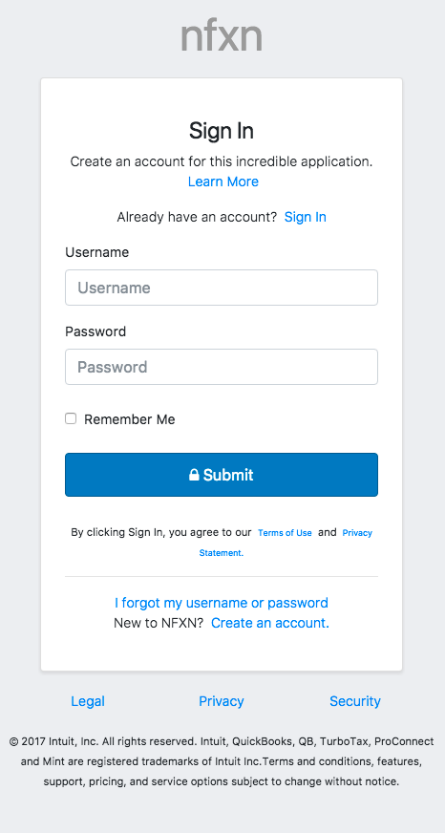
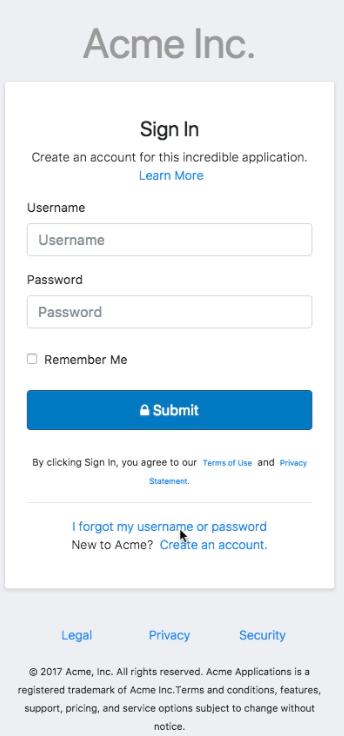
Updated

Changed region(s): [[0.0291, 0.125, 0.9884, 1.0], [0.2326, 0.0, 0.7267, 0.0938], [0.6395, 0.25, 0.7267, 0.2812]]

diff --git a/portfolio/prototypes/auth-alpha/_project/public/js/main.js b/portfolio/prototypes/auth-alpha/_project/public/js/main.js
@@ -1,14 +1,16 @@
 const cardSignIn = document.getElementById('card-signin');
 const cardCreate = document.getElementById('card-create');
 const cardForgot = document.getElementById('card-forgot');
-const linkForgotPassword = document.getElementById('link-forgot-password');
-const linkCreateAccount = document.getElementById('link-create-account');
+const cardSignInClassList = cardSignIn.classList;
+const cardForgotClassList = cardForgot.classList;
+const cardCreateClassList = cardCreate.classList;
+const siginLinkForgotPassword = document.getElementById('link-sigin-forgot-password');
+const siginLinkCreateAccount = document.getElementById('link-sigin-create-account');
+const forgotLinkSignIn = document.getElementById('link-forgot-signin');
+const createLinkSignIn = document.getElementById('create-link-signin');
 
-linkForgotPassword.addEventListener("click", () => {
-  let cardSignInClassList = cardSignIn.classList;
-  let cardForgotClassList = cardForgot.classList;
+siginLinkForgotPassword.addEventListener("click", () => {
   let checkSignIn = cardSignInClassList.contains('hide');
-  let checkForgot = cardForgotClassList.contains('hide');
 
   if(!checkSignIn){
     cardSignInClassList.add('hide');
@@ -16,14 +18,27 @@ linkForgotPassword.addEventListener("click", () => {
   }
 });
 
-linkCreateAccount.addEventListener("click", () => {
-  let cardSignInClassList = cardSignIn.classList;
-  let cardCreateClassList = cardCreate.classList;
+siginLinkCreateAccount.addEventListener("click", () => {
   let checkSignIn = cardSignInClassList.contains('hide');
-  let checkCreate = cardCreateClassList.contains('hide');
 
   if(!checkSignIn){
     cardSignInClassList.add('hide');
     cardCreateClassList.remove('hide');
+  }
+});
+
+forgotLinkSignIn.addEventListener("click", () => {
+  let checkCardForgot = cardForgotClassList.contains('hide');
+  if(!checkCardForgot){
+    cardForgotClassList.add('hide');
+    cardSignInClassList.remove('hide');
+  }
+});
+
+createLinkSignIn.addEventListener("click", () => {
+  let checkCardCreate = cardCreateClassList.contains('hide');
+  if(!checkCardCreate){
+    cardCreateClassList.add('hide');
+    cardSignInClassList.remove('hide');
   }
 });

diff --git a/portfolio/prototypes/auth-alpha/_project/public/css/style.css b/portfolio/prototypes/auth-alpha/_project/public/css/style.css
@@ -13,7 +13,9 @@ body {
   padding: 10px;
   text-align: center;
   transition-property: opacity;
-  transform: translateY(20px); }
+  transform: translateY(0px);
+  max-width: 380px;
+  margin: 0 auto; }
   #auth-alpha .hide {
     transform: rotateY(180deg); }
   #auth-alpha small a {
@@ -22,16 +24,17 @@ body {
     font-size: 48px;
     font-weight: 400;
     color: #9a9a9a;
-    margin: 5px 0;
+    margin: 5px 0 630px;
     padding: 5px 0; }
   #auth-alpha .card {
     box-shadow: 0px 2px 4px 0px rgba(153, 153, 153, 0.25);
     margin: 0 auto;
     max-width: 380px;
     position: absolute;
-    left: 50px;
+    left: 0px;
     backface-visibility: hidden;
-    transition: transform 400ms ease-out; }
+    transition: transform 400ms ease-out;
+    top: 100px; }
     #auth-alpha .card .card-body {
       padding: 40px 25px; }
       #auth-alpha .card .card-body h2 {
@@ -56,6 +59,12 @@ body {
         margin-bottom: 25px; }
         #auth-alpha .card form .btn:hover {
           background-color: rgba(0, 119, 197, 0.71); }
+      #auth-alpha .card form .cancel-btn {
+        background-color: transparent;
+        border: 1px solid rgba(165, 165, 165, 0.2);
+        color: #a5a5a5; }
+        #auth-alpha .card form .cancel-btn:hover {
+          background-color: rgba(239, 239, 239, 0.71); }
   #auth-alpha footer {
     margin-bottom: 20px; }
     #auth-alpha footer .links {

diff --git a/portfolio/prototypes/auth-alpha/_project/src/sass/_theme-auth-alpha.scss b/portfolio/prototypes/auth-alpha/_project/src/sass/_theme-auth-alpha.scss
@@ -4,7 +4,9 @@
   padding: 10px;
   text-align: center;
   transition-property: opacity;
-  transform: translateY(20px);
+  transform: translateY(0px);
+  max-width: 380px;
+  margin: 0 auto;
 
   .hide {
     transform: rotateY(180deg);
@@ -20,7 +22,7 @@
     font-size: 48px;
     font-weight: 400;
     color: #9a9a9a;
-    margin: 5px 0;
+    margin: 5px 0 630px;
     padding: 5px 0;
   }
 
@@ -29,9 +31,10 @@
     margin: 0 auto;
     max-width: 380px;
     position: absolute;
-    left: 50px;
+    left: 0px;
     backface-visibility: hidden;
     transition: transform 400ms ease-out;
+    top: 100px;
 
     .card-body {
       padding: 40px 25px;
@@ -64,6 +67,15 @@
 
         &:hover {
           background-color: rgba(0, 119, 197, 0.71);
+        }
+      }
+      .cancel-btn {
+        background-color: transparent;
+        border: 1px solid rgba(165, 165, 165, 0.2);
+        color: #a5a5a5;
+
+        &:hover {
+          background-color: rgba(239, 239, 239, 0.71);
         }
       }
     }

diff --git a/portfolio/prototypes/auth-alpha/README.md b/portfolio/prototypes/auth-alpha/README.md
@@ -1,8 +1,27 @@
 # App Access (ALPHA)
 
-Description   | Image   
+## Single Page Access
+This view combines three forms (Sign In, Registration & Forgot Password) into one using CSS's translate and back face visibility.
+
+### Sign In
+As An End User, I have the ability to:
+Learn more about becoming a registered user of this application.
+Sign into an existing account.
+Provide my username associated with my registered account.
+Provide my password associated with my registered account.
+Have my access be cached in my browser so the app "Remembers" me.
+Submit my username and password to access my account.
+Learn more about the terms of use for this application.
+Learn more about the privacy policy for this application.
+Gain help if I have forgotten my username or password.
+Create an account for this application
+Learn more about other legal terms, policies and/or security terms.
+
+Sign In   | Transition    
 :---   | :---:   
-As An End User, I have the ability to:<ul><li>Learn more about becoming a registered user of this application.</li><li>Sign into an existing account.</li><li>Provide my username associated with my registered account.</li><li>Provide my password associated with my registered account.</li><li>Have my access be cached in my browser so the app "Remembers" me.</li><li>Submit my username and password to access my account.</li><li>Learn more about the terms of use for this application.</li><li>Learn more about the privacy policy for this application.</li><li>Gain help if I have forgotten my username or password.</li><li>Create an account for this application</li><li>Learn more about other legal terms, policies and/or security terms.</li></ul>   | ![image](https://raw.github.com/elwoodberry/portfolio/master/_img/app-access-alpha__01.png)   
+![image](https://raw.github.com/elwoodberry/portfolio/master/_img/app-access-alpha__01.png)   | ![image](https://raw.github.com/elwoodberry/portfolio/master/_img/app-access-alpha__02.png)
+
+
 
 ## Inspiration
 1. [Mint](https://www.mint.com/)'s login/sign up UI workflow.
